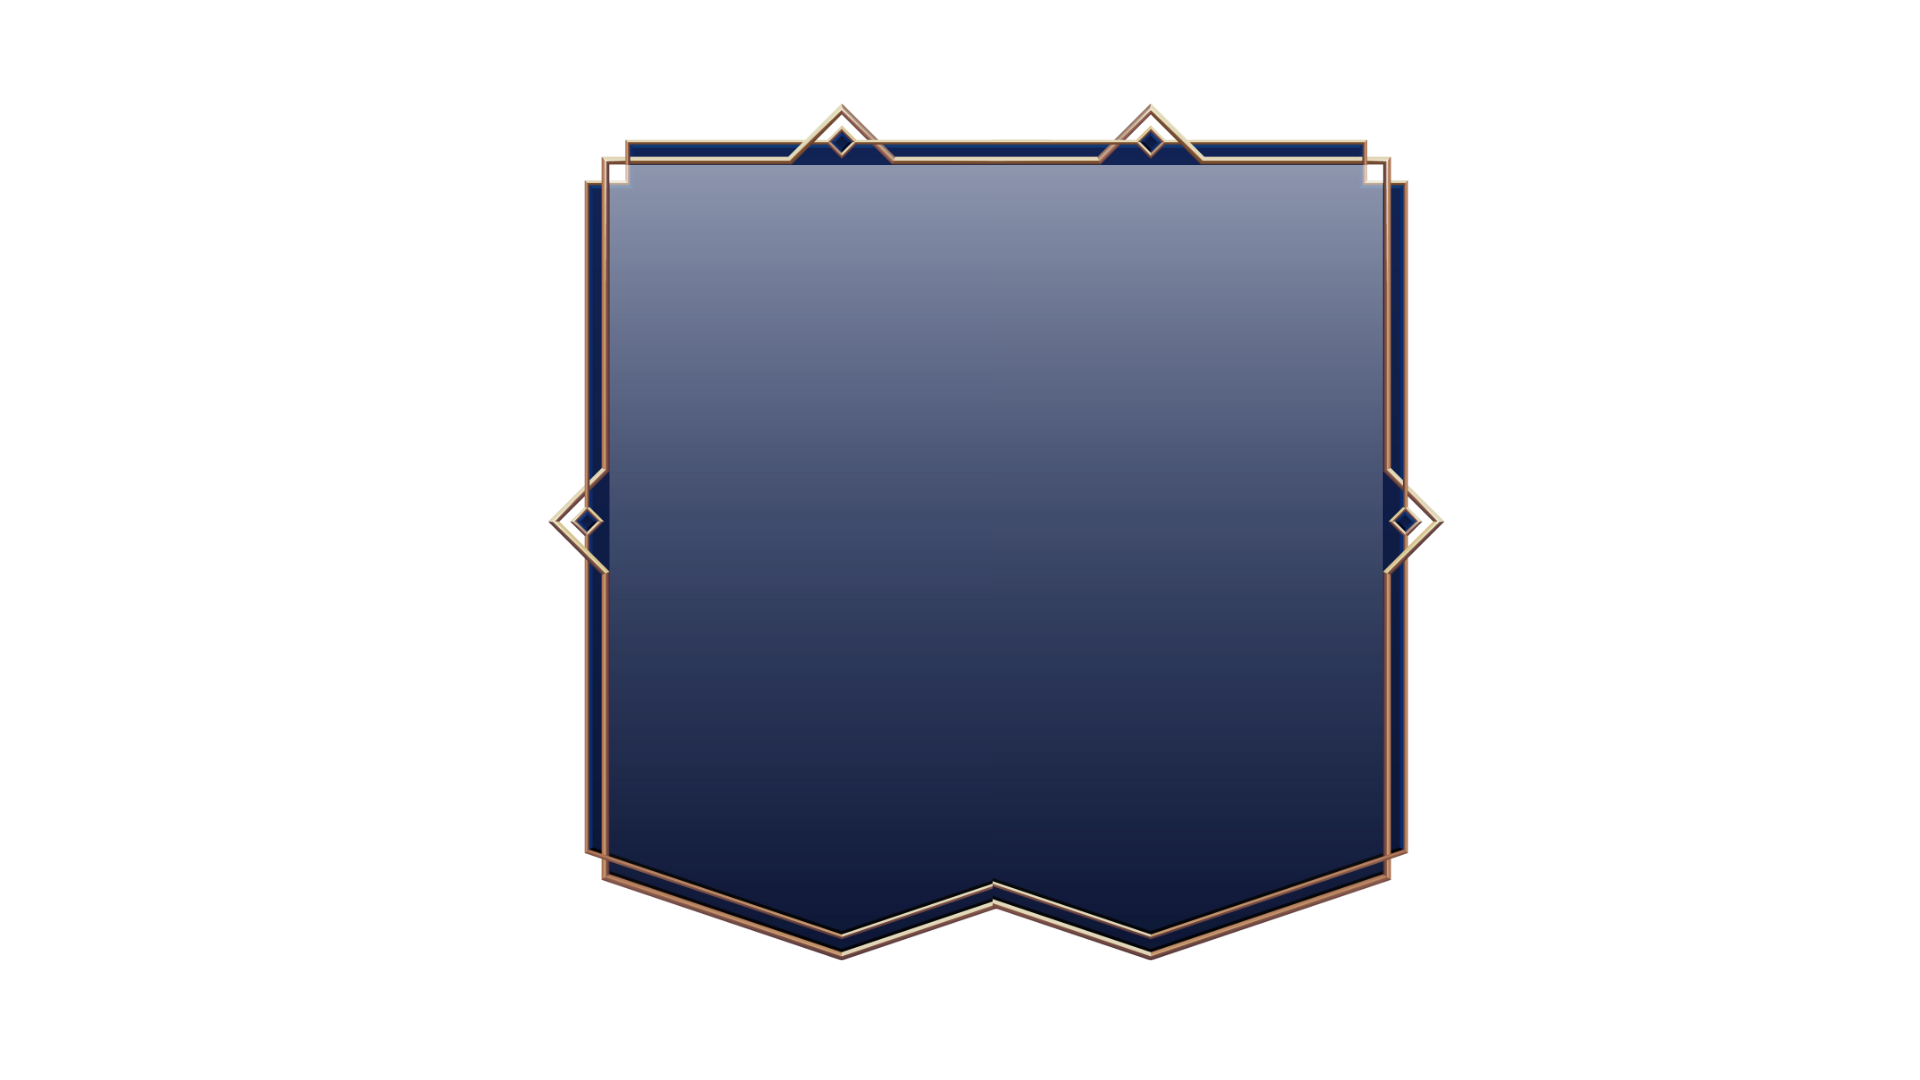
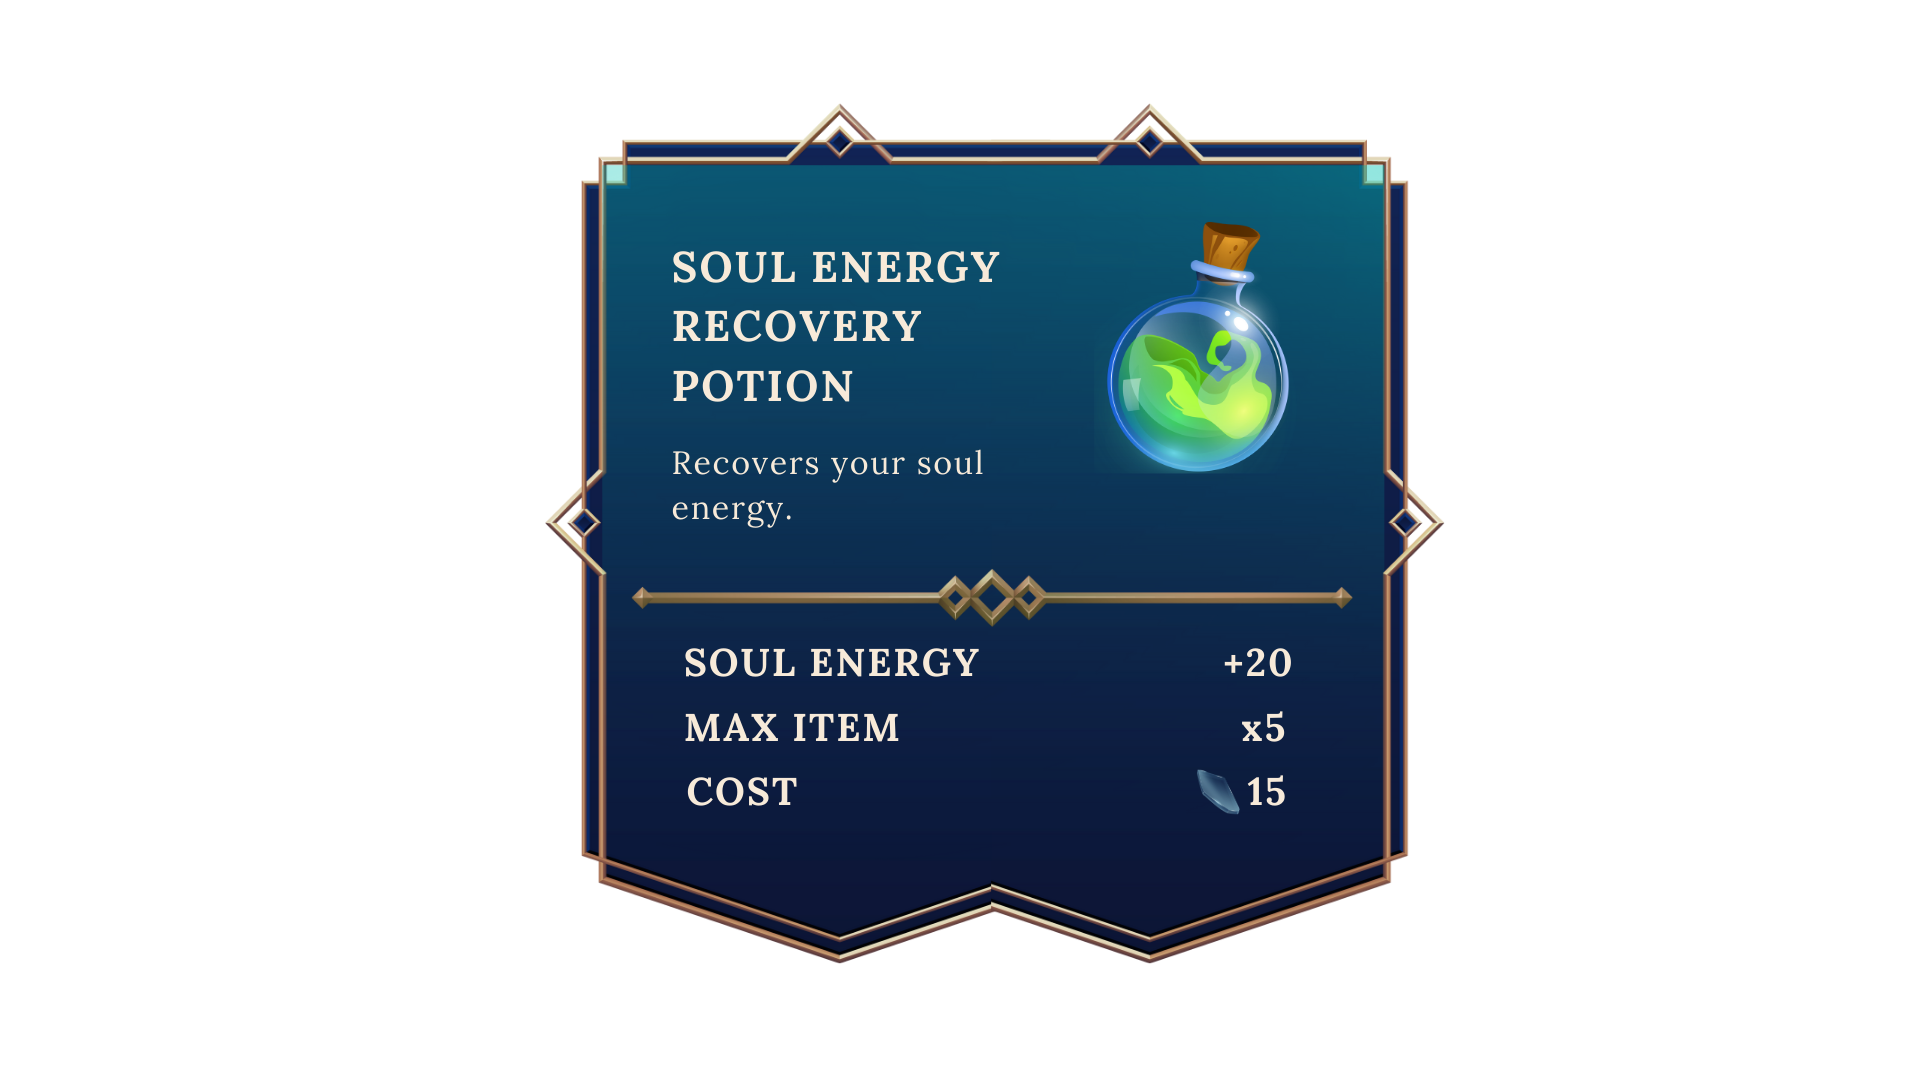
added a close button and show sidePanel on Hover
atm ang sidePanel ra a ng maclose sa close button and not the whole shop, will change later sleep sa ko

Changed region(s): [[0.2812, 0.0917, 0.75, 0.8861], [0.625, 0.7028, 0.6562, 0.7639]]

diff --git a/src/EOD/objects/shop/Shop.java b/src/EOD/objects/shop/Shop.java
@@ -13,7 +13,7 @@ public class Shop extends EchoesObjects implements MouseInteractable {
     //objects
     private EchoesObjects shopBg, sidePanel;
     private EchoesObjects item1, item2, item3, item4;
-    private EchoesObjects buyButton;
+    private EchoesObjects buyButton, closeButton;
     private double height, width;
 
 
@@ -38,6 +38,31 @@ public class Shop extends EchoesObjects implements MouseInteractable {
         world.getLayeredPane().repaint();
     }
 
+    // public void hideShop() {
+    //     // Hide all components
+    //     if (shopBg != null) {
+    //         // Remove all components from shopBg
+    //         shopBg.removeAll();
+    //         // Remove shopBg from the layered pane
+    //         world.getLayeredPane().remove(shopBg);
+    //         // Reset all object references
+    //         shopBg = null;
+    //         sidePanel = null;
+    //         item1 = null;
+    //         item2 = null;
+    //         item3 = null;
+    //         item4 = null;
+    //         buyButton = null;
+    //         closeButton = null;
+    //     }
+        
+    //     // Refresh the display
+    //     world.getLayeredPane().revalidate();
+    //     world.getLayeredPane().repaint();
+    //     world.revalidate();
+    //     world.repaint();
+    // }
+
     public void showSidePanelBg(double width, double height){
         sidePanel = new EchoesObjects("shop", (int)(width * 0.3799), (int)(height* 0.240), (int)(width * 0.58), (int)(height * 0.58), "sidePanel_", false, false, 5);
         sidePanel.setVisible(true);
@@ -48,21 +73,41 @@ public class Shop extends EchoesObjects implements MouseInteractable {
         item1 = new EchoesObjects("shop", (int)(width * 0.152), (int)(height* 0.2528), (int)(width * 0.1578), (int)(height * 0.3), "item1_", false, true, 2);
         item1.setVisible(true);
         item1.addMouseListener(new MouseClickListener(this));
+        item1.addMouseMotionListener(new java.awt.event.MouseMotionAdapter() {
+            public void mouseMoved(MouseEvent e) {
+                onHover(e);
+            }
+        });
         shopBg.add(item1);
 
         item2 = new EchoesObjects("shop", (int)(width * 0.152), (int)(height* 0.5), (int)(width * 0.1578), (int)(height * 0.3), "item2_", false, true, 2);
         item2.setVisible(true);
         item2.addMouseListener(new MouseClickListener(this));
+        item2.addMouseMotionListener(new java.awt.event.MouseMotionAdapter() {
+            public void mouseMoved(MouseEvent e) {
+                onHover(e);
+            }
+        });
         shopBg.add(item2);
 
         item3 = new EchoesObjects("shop", (int)(width * 0.294), (int)(height* 0.258), (int)(width * 0.1578), (int)(height * 0.3), "item3_", false, true, 2);
         item3.setVisible(true);
         item3.addMouseListener(new MouseClickListener(this));
+        item3.addMouseMotionListener(new java.awt.event.MouseMotionAdapter() {
+            public void mouseMoved(MouseEvent e) {
+                onHover(e);
+            }
+        });
         shopBg.add(item3);
 
         item4 = new EchoesObjects("shop", (int)(width * 0.294), (int)(height* 0.505), (int)(width * 0.1578), (int)(height * 0.3), "item4_", false, true, 2);
         item4.setVisible(true);
         item4.addMouseListener(new MouseClickListener(this));
+        item4.addMouseMotionListener(new java.awt.event.MouseMotionAdapter() {
+            public void mouseMoved(MouseEvent e) {
+                onHover(e);
+            }
+        });
         shopBg.add(item4);
     }
 
@@ -76,6 +121,20 @@ public class Shop extends EchoesObjects implements MouseInteractable {
         shopBg.setComponentZOrder(buyButton, 0);
     }
 
+    public void showCloseButton(double width, double height) {
+        closeButton = new EchoesObjects("shop", 
+            (int)(width * 0.82), 
+            (int)(height * 0.189), 
+            (int)(width * 0.06), 
+            (int)(height * 0.1),
+            "close_", false, true, 2); 
+        closeButton.setVisible(true);
+        closeButton.addMouseListener(new MouseClickListener(this));
+        shopBg.add(closeButton);
+        shopBg.revalidate();
+        shopBg.repaint(); 
+    }
+
     public void showElementsInShop(){
         showShopBg();
         width = shopBg.getWidth();
@@ -83,6 +142,7 @@ public class Shop extends EchoesObjects implements MouseInteractable {
         showShopItem1(width, height);
         showSidePanelBg(width, height);
         showBuyButton(width, height);
+        showCloseButton(width, height);
     }
 
     @Override
@@ -93,27 +153,112 @@ public class Shop extends EchoesObjects implements MouseInteractable {
             return;
         }
         buyButton.setVisible(true);
+
         if(source == item1){
+            item1.setCurrentFrame(2);  // Show second image on click
+            item1.repaint();
             sidePanel.setCurrentFrame(1);
             sidePanel.repaint();
+            
+            // sidePanel.setCurrentFrame(1);
+            // sidePanel.repaint();
         }else if(source == item2){
+            item2.setCurrentFrame(2);  // Show second image on click
             sidePanel.setCurrentFrame(2);
-            showBuyButton(width, height);
+            sidePanel.repaint();
+            item2.repaint();
+            // sidePanel.setCurrentFrame(2);
+            // showBuyButton(width, height);
             sidePanel.repaint();
         }else if(source == item3){
+            item3.setCurrentFrame(2);  // Show second image on click
             sidePanel.setCurrentFrame(3);
-            showBuyButton(width, height);
             sidePanel.repaint();
+            item3.repaint();
+            // sidePanel.setCurrentFrame(3);
+            // showBuyButton(width, height);
+            // sidePanel.repaint();
         }else if(source == item4){
+            item4.setCurrentFrame(2);  // Show second image on click
             sidePanel.setCurrentFrame(4);
-            showBuyButton(width, height);
             sidePanel.repaint();
-        }else if (source == buyButton){
-            world.getLayeredPane().remove(shopBg);
+            item4.repaint();
+            // sidePanel.setCurrentFrame(4);
+            // showBuyButton(width, height);
+            // sidePanel.repaint();
+        }else if (source == closeButton){
+          //  world.getLayeredPane().remove(shopBg);
+            //hideShop();
+            // world.getLayeredPane().revalidate();
+            // world.getLayeredPane().repaint();
+            // world.revalidate();
+            // world.repaint();
+
+            // if (shopBg != null) {
+            //     // shopBg.setVisible(false);
+            //     // world.getLayeredPane().remove(shopBg);
+            //     // shopBg.removeAll();
+                
+            //     // // Null out all references
+            //     // sidePanel = null;
+            //     // item1 = null;
+            //     // item2 = null;
+            //     // item3 = null;
+            //     // item4 = null;
+            //     // buyButton = null;
+            //     // closeButton = null;
+            //     // shopBg = null;
+                
+            //     // // Request garbage collection
+            //     // System.gc();
+                
+            //     if (shopBg != null) shopBg.setVisible(false);
+            //     if (sidePanel != null) sidePanel.setVisible(false);
+            //     if (item1 != null) item1.setVisible(false);
+            //     if (item2 != null) item2.setVisible(false);
+            //     if (item3 != null) item3.setVisible(false);
+            //     if (item4 != null) item4.setVisible(false);
+            //     if (buyButton != null) buyButton.setVisible(false);
+            //     if (closeButton != null) closeButton.setVisible(false);
+        
+            //     // Refresh everything
+            //     world.getLayeredPane().revalidate();
+            //     world.getLayeredPane().repaint();
+            //     //world.revalidate();
+            //    // world.repaint();
+            // }
+
+             shopBg.setVisible(false);
+            // sidePanel.setVisible(false);
+            // item1.setVisible(false);
+            // item2.setVisible(false);
+            // item3.setVisible(false);
+            // item4.setVisible(false);
+            // buyButton.setVisible(false);
+            // closeButton.setVisible(false);          
+
             world.getLayeredPane().revalidate();
             world.getLayeredPane().repaint();
-            world.revalidate();
-            world.repaint();
         }
     }  
+
+    //ifix pa nako ang close button kay ang sidePanel pa ang maclose - sm
+
+    // -sm on hover show sidePanel
+    public void onHover(MouseEvent e) {
+        Object source = e.getSource();
+        if(source == item1) {
+            sidePanel.setCurrentFrame(1);
+            sidePanel.repaint();
+        } else if(source == item2) {
+            sidePanel.setCurrentFrame(2);
+            sidePanel.repaint();
+        } else if(source == item3) {
+            sidePanel.setCurrentFrame(3);
+            sidePanel.repaint();
+        } else if(source == item4) {
+            sidePanel.setCurrentFrame(4);
+            sidePanel.repaint();
+        }
+    }
 }

diff --git a/src/EOD/objects/EchoesObjects.java b/src/EOD/objects/EchoesObjects.java
@@ -4,6 +4,10 @@
  */
 package EOD.objects;
 
+import EOD.MouseInteractable;
+import EOD.entities.*;
+import EOD.listeners.MouseClickListener;
+import EOD.utils.*;
 import java.awt.Dimension;
 import java.awt.Graphics;
 import java.awt.Graphics2D;
@@ -13,11 +17,6 @@ import java.awt.Toolkit;
 import java.awt.event.MouseEvent;
 import java.io.IOException;
 import javax.imageio.ImageIO;
-
-import EOD.MouseInteractable;
-import EOD.listeners.MouseClickListener;
-import EOD.utils.*;
-import EOD.entities.*;
 
 /**
  *
